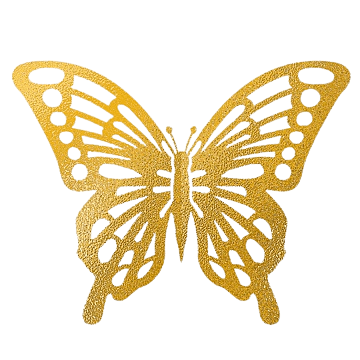
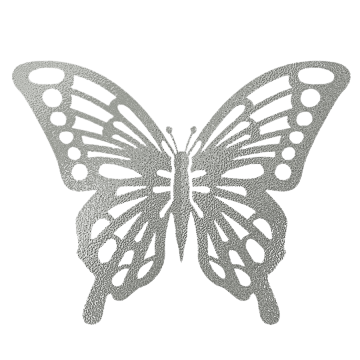
Mariposas restantes salen volando al hacer scroll y fuente Sacramento por defecto
IntroService detecta el primer scroll del usuario y lo expone como senal
"desplazado"; las mariposas que quedaban vagando la escuchan y salen
volando fuera de pantalla igual que las primeras tres. Tambien se cambia
la fuente por defecto de los nombres de la familia a Sacramento.

Changed region(s): [[0.0306, 0.1528, 0.9778, 0.9167]]

diff --git a/src/app/components/butterfly.component.ts b/src/app/components/butterfly.component.ts
@@ -14,7 +14,9 @@ export interface PosicionMariposa {
  * Una mariposa: empieza posada en `posicionInicial` (sobre las flores del
  * marco inferior) y, en cuanto IntroService marca que los portones se están
  * abriendo, si `saleVolando` es true se va volando fuera de pantalla y
- * desaparece; si no, se queda vagando al azar por la página.
+ * desaparece; si no, se queda vagando al azar por la página hasta que el
+ * usuario hace scroll (IntroService.desplazado), momento en el que también
+ * sale volando y desaparece.
  */
 @Component({
   selector: 'app-butterfly',
@@ -55,13 +57,36 @@ export class ButterflyComponent implements OnInit, OnDestroy {
   protected readonly visible = signal(true);
 
   private temporizador?: ReturnType<typeof setTimeout>;
-  private empezoAVolar = false;
+  private empezoAVagar = false;
+  private yaVolando = false;
 
   constructor() {
     effect(() => {
-      if (this.intro.abriendo() && !this.empezoAVolar) {
-        this.empezoAVolar = true;
-        this.iniciarVuelo();
+      const abriendo = this.intro.abriendo();
+      const desplazado = this.intro.desplazado();
+
+      if (!abriendo || this.yaVolando) return;
+
+      const debeSalir = this.saleVolando || desplazado;
+
+      if (this.reduccionMovimiento) {
+        if (debeSalir) {
+          this.yaVolando = true;
+          this.visible.set(false);
+        }
+        return;
+      }
+
+      if (debeSalir) {
+        this.yaVolando = true;
+        this.iniciarSalida();
+        return;
+      }
+
+      if (!this.empezoAVagar) {
+        this.empezoAVagar = true;
+        this.volando.set(true);
+        this.volarASiguientePunto();
       }
     });
   }
@@ -75,24 +100,15 @@ export class ButterflyComponent implements OnInit, OnDestroy {
     clearTimeout(this.temporizador);
   }
 
-  private iniciarVuelo(): void {
-    if (this.reduccionMovimiento) {
-      if (this.saleVolando) this.visible.set(false);
-      return;
-    }
+  private iniciarSalida(): void {
+    clearTimeout(this.temporizador);
 
     this.volando.set(true);
-
-    if (this.saleVolando) {
-      this.duracion.set(DURACION_SALIDA_S);
-      this.angulo.set(this.posicionAleatoria(-15, 15));
-      this.x.set(this.posicionAleatoria(-10, 110));
-      this.y.set(-25);
-      this.temporizador = setTimeout(() => this.visible.set(false), DURACION_SALIDA_S * 1000);
-      return;
-    }
-
-    this.volarASiguientePunto();
+    this.duracion.set(DURACION_SALIDA_S);
+    this.angulo.set(this.posicionAleatoria(-15, 15));
+    this.x.set(this.posicionAleatoria(-10, 110));
+    this.y.set(-25);
+    this.temporizador = setTimeout(() => this.visible.set(false), DURACION_SALIDA_S * 1000);
   }
 
   private volarASiguientePunto(): void {

diff --git a/src/app/services/intro.service.ts b/src/app/services/intro.service.ts
@@ -16,8 +16,18 @@ export class IntroService {
 
   readonly abriendo = signal(this.prefiereMenosMovimiento);
   readonly portonesVisibles = signal(!this.prefiereMenosMovimiento);
+  /** Se pone en true la primera vez que el usuario hace scroll hacia abajo. */
+  readonly desplazado = signal(false);
 
   constructor() {
+    const alHacerScroll = () => {
+      if (window.scrollY > 40) {
+        this.desplazado.set(true);
+        window.removeEventListener('scroll', alHacerScroll);
+      }
+    };
+    window.addEventListener('scroll', alHacerScroll, { passive: true });
+
     if (this.prefiereMenosMovimiento) return;
 
     document.body.style.overflow = 'hidden';

diff --git a/src/app/services/theme.service.ts b/src/app/services/theme.service.ts
@@ -98,7 +98,7 @@ export class ThemeService {
   readonly paleta = signal<OpcionPaleta>(this.buscar(this.paletas, 'oceano'));
   readonly fuente = signal<OpcionFuente>(this.buscar(this.fuentes, 'parisienne'));
   readonly fondo = signal<OpcionFondo>(this.buscar(this.fondos, 'aurora'));
-  readonly fuenteNombres = signal<OpcionFuente>(this.buscar(this.fuentesNombres, 'serif'));
+  readonly fuenteNombres = signal<OpcionFuente>(this.buscar(this.fuentesNombres, 'sacramento'));
   readonly colorNombres = signal<OpcionColorTexto>(this.buscar(this.coloresNombres, 'tinta'));
 
   /** Clases combinadas para el contenedor raíz. */
